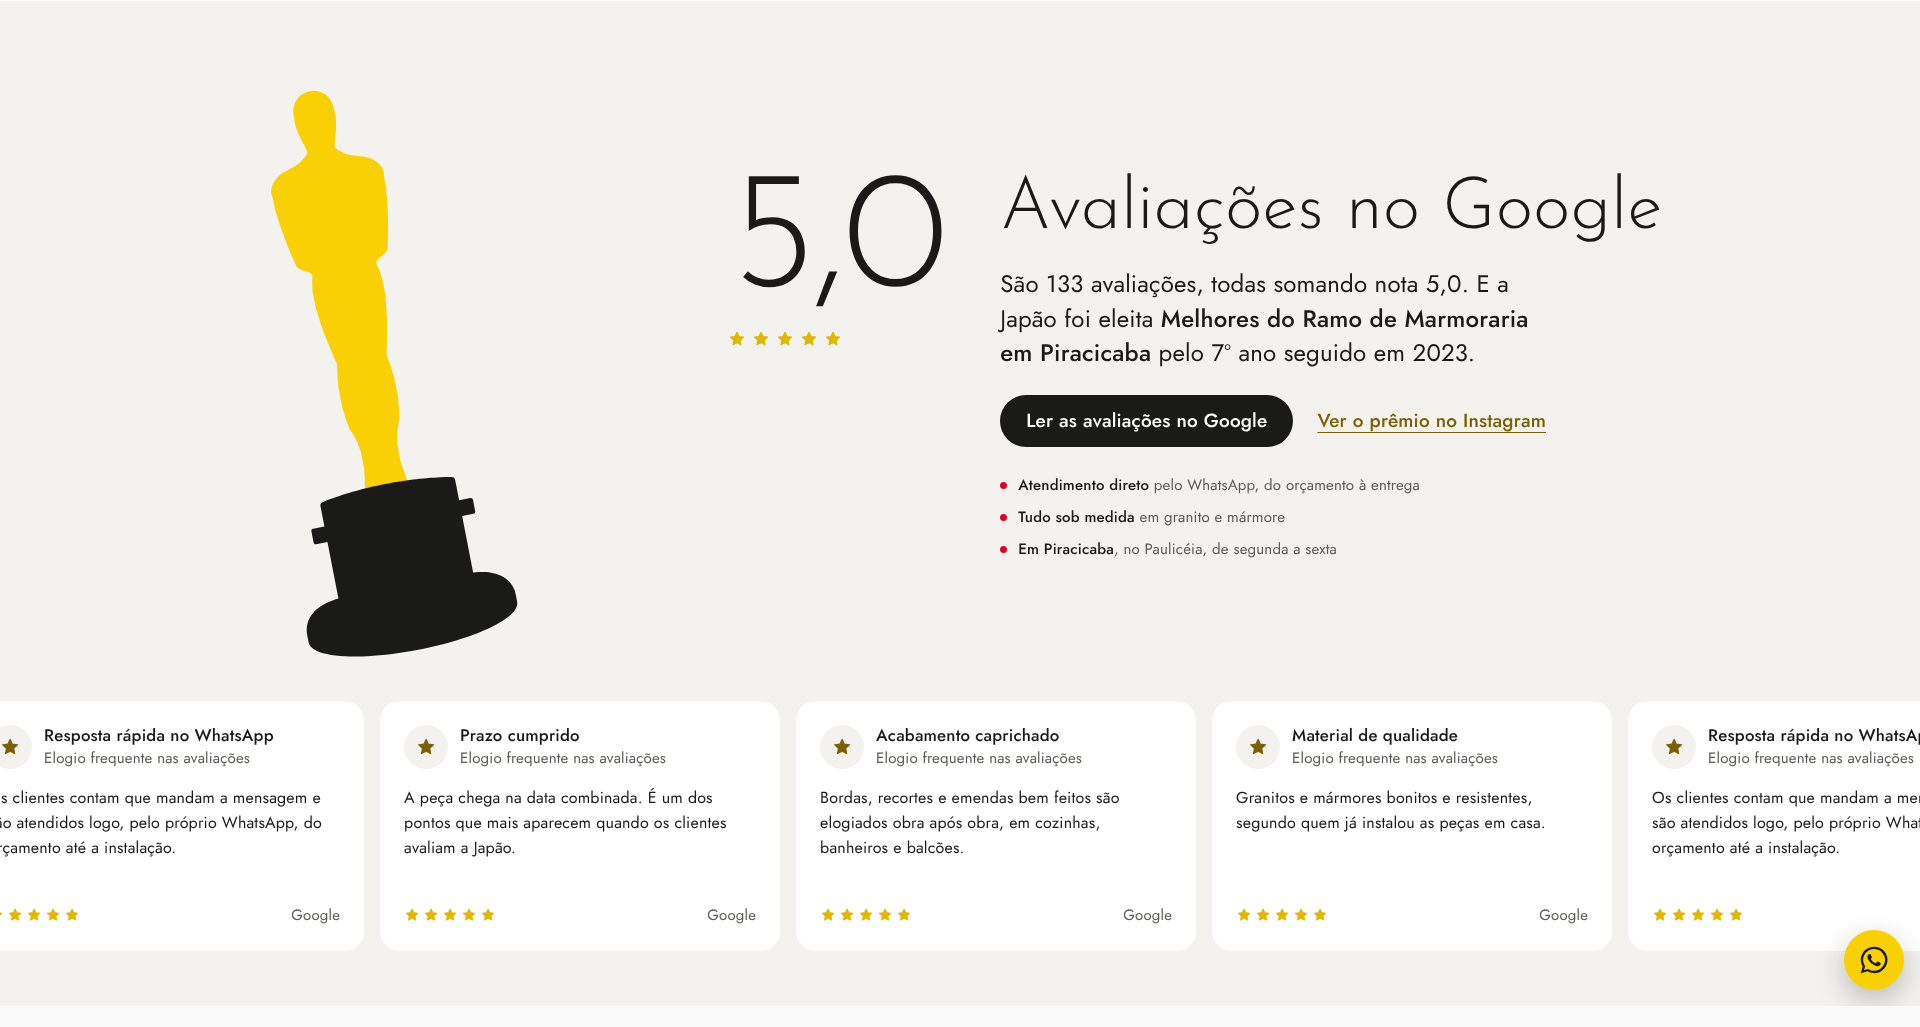
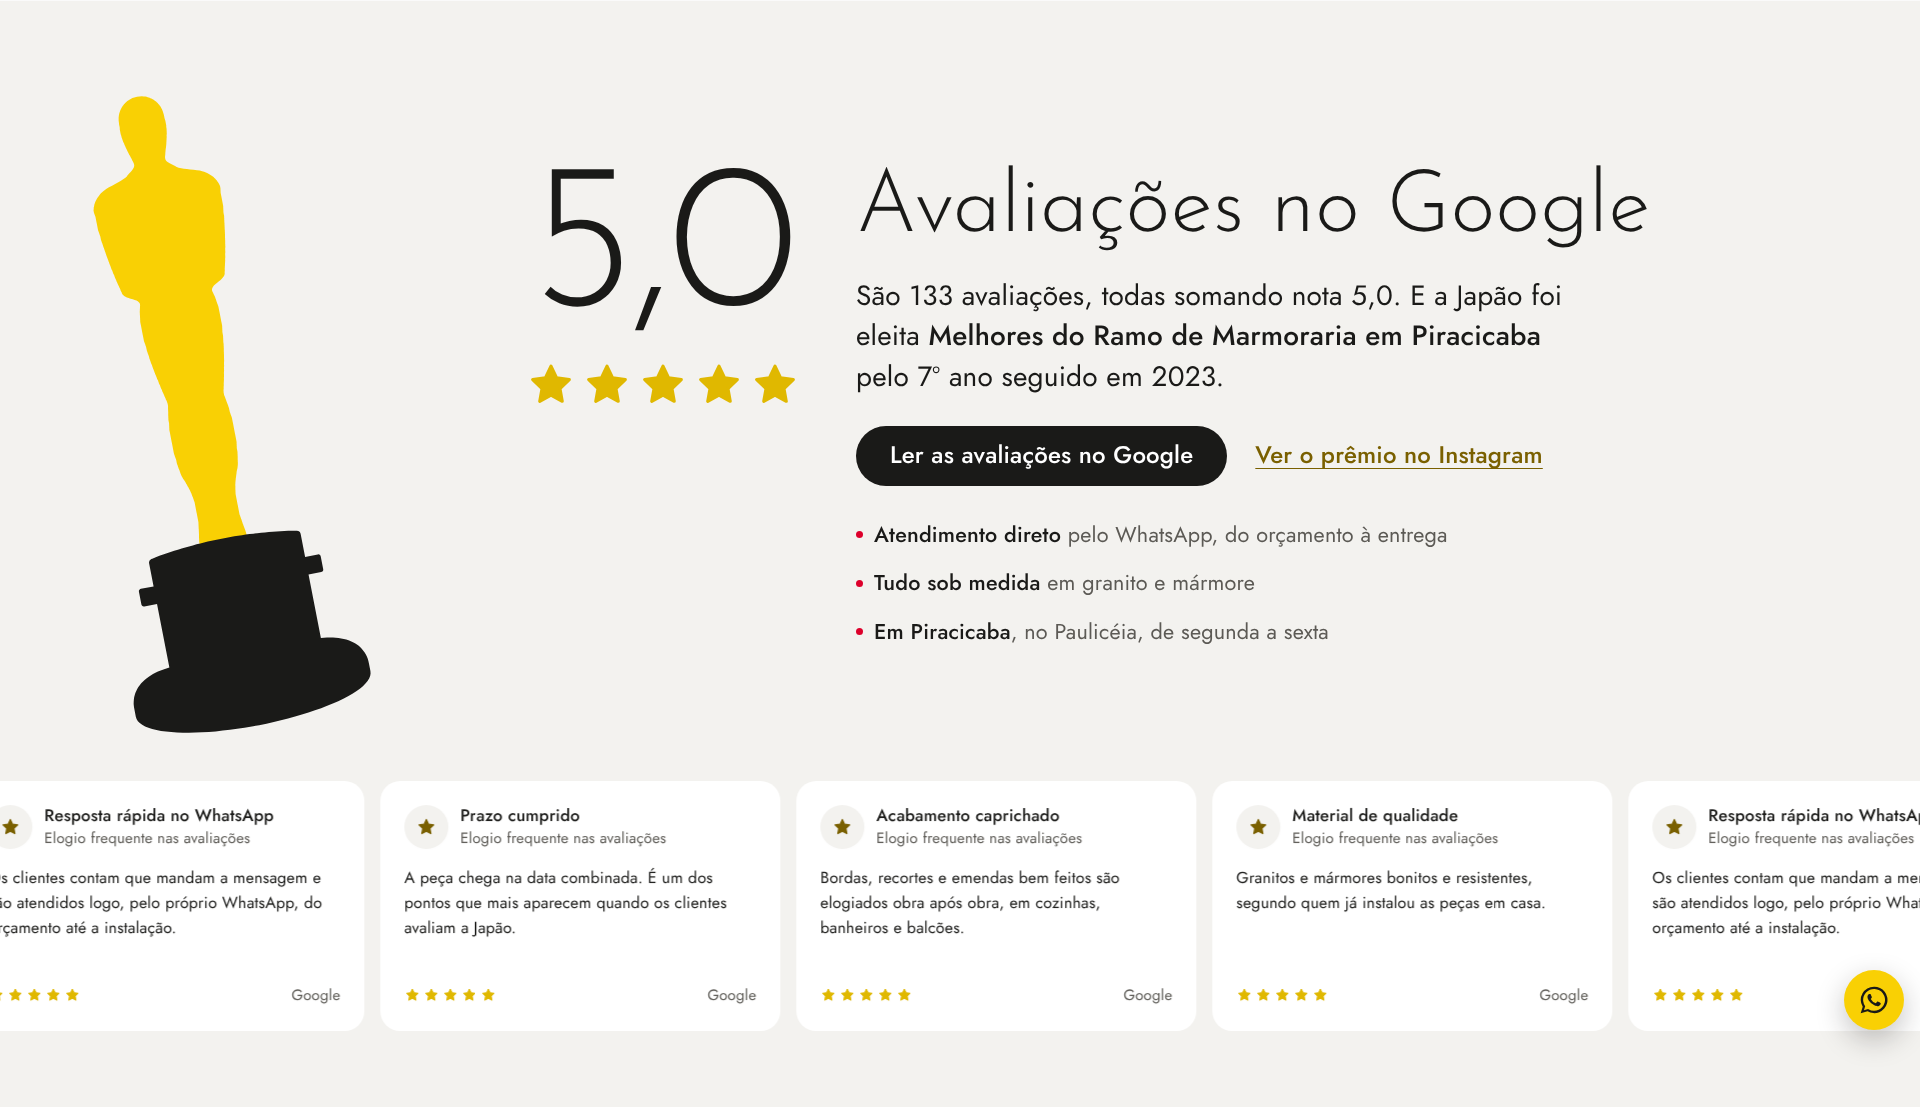
Avaliações: elementos maiores, no tamanho do desenho de referência
Nota 5,0, estrelas, título, texto, botões e os três pontos maiores,
ocupando a largura do lado direito; estatueta mais alta à esquerda.

diff --git a/css/style.css b/css/style.css
@@ -499,28 +499,31 @@ h3 { font-family: var(--font-display); font-weight: 400; letter-spacing: 0; line
   overflow: hidden;
 }
 .porque-topo {
-  position: relative; max-width: var(--max); margin: 0 auto;
+  position: relative; width: min(100%, 1760px); margin: 0 auto;
   display: grid; grid-template-columns: repeat(12, 1fr); gap: 24px; align-items: center;
-  min-height: clamp(380px, 56svh, 560px);
+  min-height: clamp(420px, 62svh, 640px);
 }
-.porque-estatueta { grid-column: 1 / 5; position: relative; align-self: stretch; }
+.porque-estatueta { grid-column: 1 / 4; position: relative; align-self: stretch; }
 .porque-estatueta .estatueta {
-  position: absolute; left: 4%; top: 50%;
-  height: clamp(380px, 66svh, 640px); width: auto;
+  position: absolute; left: 0; top: 50%;
+  height: clamp(420px, 72svh, 720px); width: auto;
   transform: translateY(-50%) rotate(-11deg); transform-origin: 50% 80%;
   color: var(--gold);
 }
 .porque-estatueta .estatueta .base { fill: var(--ink); }
 
-.porque-info { grid-column: 5 / 13; display: grid; grid-template-columns: auto 1fr; gap: clamp(24px, 4vw, 56px); align-items: start; }
+.porque-info { grid-column: 4 / 13; display: grid; grid-template-columns: auto 1fr; gap: clamp(24px, 4vw, 56px); align-items: start; }
 .porque-nota { text-align: left; }
-.porque-nota .nota-grande { font-size: clamp(6rem, 3.5rem + 7vw, 10.5rem); line-height: .85; margin: 0; letter-spacing: -0.02em; }
-.porque-nota .estrelas-grandes { justify-content: flex-start; margin-top: 14px; gap: 6px; }
-.porque-texto h2 { font-size: var(--step-head); }
-.porque-texto .lead { max-width: 38ch; margin-top: 18px; }
+.porque-nota .nota-grande { font-size: clamp(6.5rem, 3.5rem + 8.5vw, 13rem); line-height: .85; margin: 0; letter-spacing: -0.02em; }
+.porque-nota .estrelas-grandes { justify-content: space-between; margin-top: 18px; gap: 6px; }
+.porque-nota .estrelas-grandes svg { width: clamp(30px, 2.8vw, 50px); height: clamp(30px, 2.8vw, 50px); }
+.porque-texto h2 { font-size: clamp(2.4rem, 1.2rem + 3.8vw, 5.4rem); }
+.porque-texto .lead { max-width: 44ch; margin-top: 20px; font-size: clamp(1.2rem, 1rem + .7vw, 1.75rem); }
 .porque-texto .lead strong { font-weight: 500; }
-.porque-acoes { display: flex; flex-wrap: wrap; align-items: center; gap: 12px 24px; margin-top: 24px; }
-.porque-pontos { margin-top: 26px; display: grid; gap: 8px; font-size: var(--step-small); color: var(--muted); }
+.porque-acoes { display: flex; flex-wrap: wrap; align-items: center; gap: 12px 28px; margin-top: 28px; }
+.porque-acoes .botao { min-height: 60px; padding: 0 34px; font-size: var(--step-lead); }
+.porque-acoes .link { font-size: var(--step-lead); }
+.porque-pontos { margin-top: 32px; display: grid; gap: 14px; font-size: clamp(1.05rem, .95rem + .4vw, 1.35rem); color: var(--muted); }
 .porque-pontos li { position: relative; padding-left: 18px; }
 .porque-pontos li::before { content: ""; position: absolute; left: 0; top: .62em; width: 7px; height: 7px; border-radius: 50%; background: var(--red); }
 .porque-pontos b { color: var(--ink); font-weight: 500; }
@@ -555,7 +558,12 @@ h3 { font-family: var(--font-display); font-weight: 400; letter-spacing: 0; line
   .porque-estatueta .estatueta { position: static; height: 150px; transform: rotate(10deg); }
   .porque-info { display: block; }
   .porque-nota { padding-right: 120px; }
-  .porque-texto { margin-top: 32px; }
+  .porque-texto { margin-top: 28px; }
+  .porque-acoes .botao, .porque-acoes .link { font-size: var(--step-body); }
+  .porque-acoes .botao { min-height: 52px; padding: 0 24px; }
+  .porque-pontos { font-size: 1rem; gap: 10px; margin-top: 24px; }
+  .porque-nota .estrelas-grandes { justify-content: flex-start; }
+  .porque-nota .estrelas-grandes svg { width: 26px; height: 26px; }
 }
 
 /* ---------- 8. como funciona ---------- */
